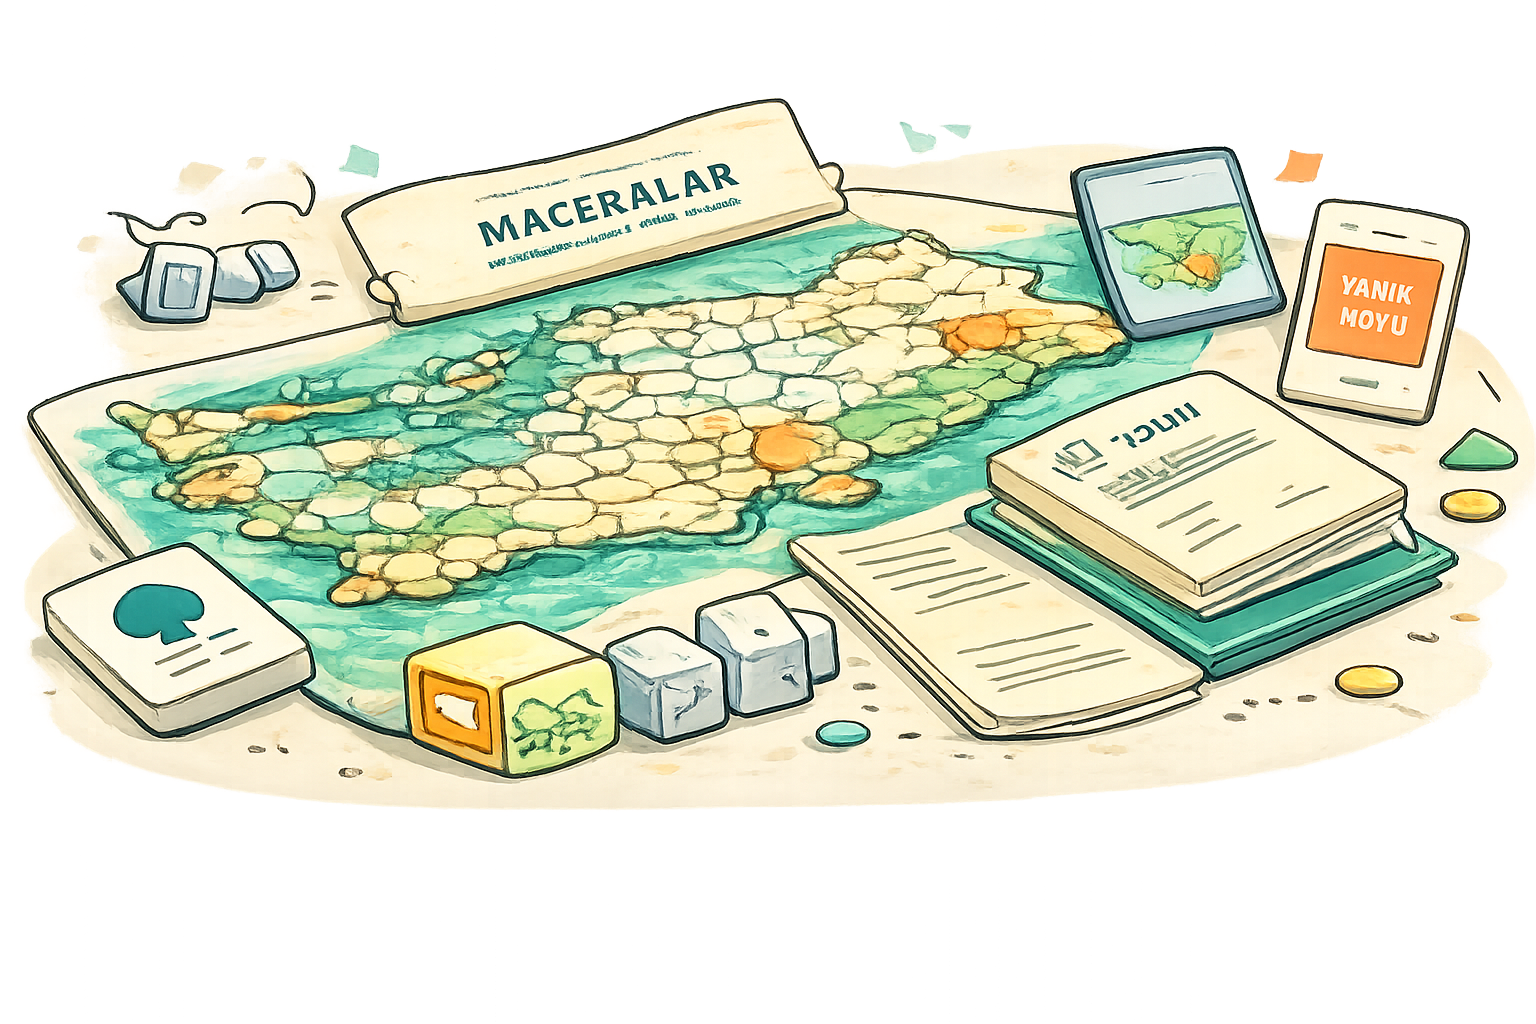
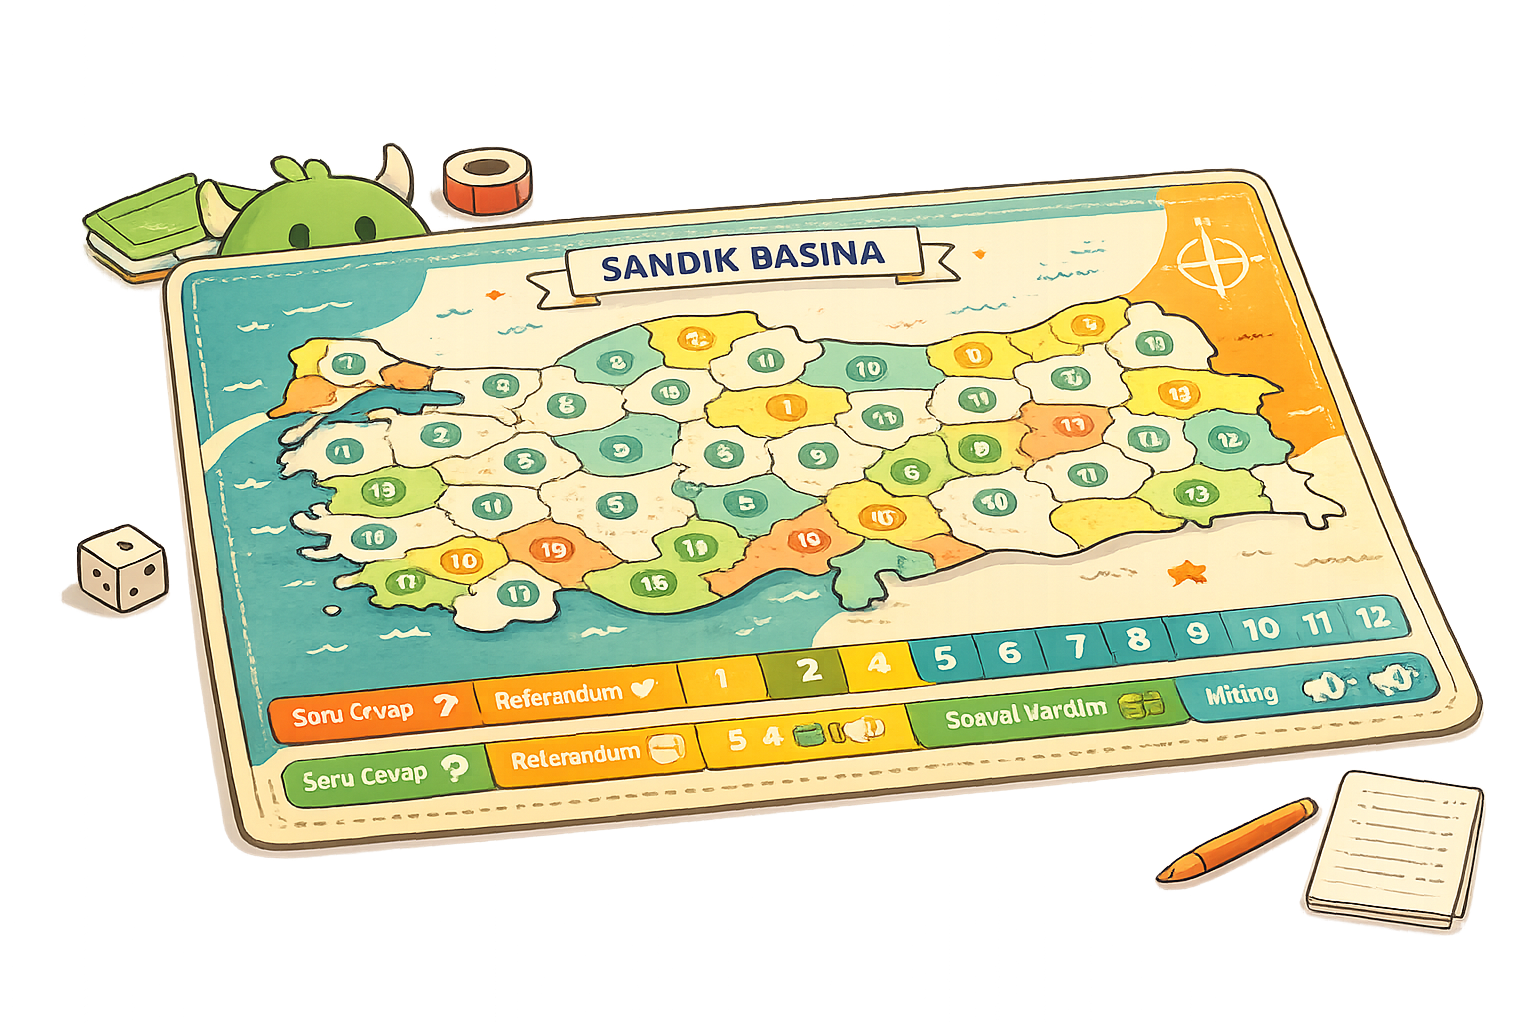
contact revised-game illustrations revised

diff --git a/contact.html b/contact.html
@@ -3,17 +3,21 @@
 <head>
   <meta charset="UTF-8" />
   <meta name="viewport" content="width=device-width, initial-scale=1.0" />
+
   <title>Contact – MEHH</title>
- <meta
+
+  <meta
     name="description"
     content="Get in touch with MEHH for games, apps, collaborations or strange ideas."
   />
+
   <!-- GLOBAL -->
   <link rel="stylesheet" href="style.css" />
 
   <!-- PAGE -->
   <link rel="stylesheet" href="contact.css" />
-   <!-- Open Graph -->
+
+  <!-- Open Graph -->
   <meta property="og:title" content="Contact – MEHH">
   <meta property="og:description" content="Have a strange idea? A collaboration? Or just curiosity? Get in touch.">
   <meta property="og:image" content="https://lifeismehh.com/img/og.jpg">
@@ -22,48 +26,51 @@
 
   <!-- Favicon -->
   <link rel="icon" href="/favicon.ico">
-  <!-- Google tag (gtag.js) -->
-<script async src="https://www.googletagmanager.com/gtag/js?id=G-J0YQLYL523"></script>
-<script>
-  window.dataLayer = window.dataLayer || [];
-  function gtag(){dataLayer.push(arguments);}
-  gtag('js', new Date());
 
-  gtag('config', 'G-J0YQLYL523');
-</script>
+  <!-- Google Analytics -->
+  <script async src="https://www.googletagmanager.com/gtag/js?id=G-J0YQLYL523"></script>
+  <script>
+    window.dataLayer = window.dataLayer || [];
+    function gtag(){dataLayer.push(arguments);}
+    gtag('js', new Date());
+    gtag('config', 'G-J0YQLYL523');
+  </script>
 </head>
+
 <body>
 
 <div class="container">
 
   <!-- HEADER (INDEX İLE AYNI) -->
   <header class="header">
-<a href="index.html" class="logo-link">
-  <img src="img/logo.png" alt="MEHH Logo" class="logo" />
-</a>
+    <a href="index.html" class="logo-link">
+      <img src="img/logo.png" alt="MEHH Logo" class="logo" />
+    </a>
+
     <nav>
       <a href="index.html">Home</a>
       <a href="games.html">Games</a>
       <a href="apps.html">Apps</a>
-      <a href="contact.html">Contact</a>
+      <a href="experiments.html">Experiments</a>
+
     </nav>
   </header>
 
   <!-- HERO -->
-  <section class="contact-hero">
-    <h1>Contact</h1>
-    <p>
-      Got a strange idea?<br>
-      A question? Wanna say hi?
-    </p>
-  </section>
+ 
 
   <!-- CONTACT CARD -->
   <section class="contact-wrapper">
     <div class="contact-card">
-      <p class="contact-line">
-        The fastest way to reach us:
-      </p>
+
+      <!-- MONSTER (NEW, SAFE) -->
+      <img
+        src="img/mehh-contact.png"
+        alt="MEHH monster chilling in an armchair"
+        class="contact-illustration"
+      />
+
+   
 
       <a href="mailto:hello@lifeismehh.com" class="contact-email">
         hello@lifeismehh.com
@@ -71,14 +78,13 @@
 
       <p class="contact-note">
         We read everything.<br>
-Sometimes slowly.
+        Sometimes slowly.
       </p>
     </div>
   </section>
 
   <!-- FOOTER TEXT -->
   <section class="contact-footer">
-  
   </section>
 
   <!-- FOOTER (INDEX İLE AYNI) -->

diff --git a/contact.css b/contact.css
@@ -35,6 +35,14 @@
   text-align: center;
 }
 
+/* NEW – monster illustration (does NOT affect layout) */
+.contact-illustration {
+  display: block;
+  max-width: 260px;
+  width: 100%;
+  margin: 0 auto 32px;
+}
+
 .contact-line {
   font-size: 16px;
   margin-bottom: 16px;
@@ -89,5 +97,9 @@
 
   .contact-email {
     font-size: 20px;
+  }
+
+  .contact-illustration {
+    max-width: 220px;
   }
 }

diff --git a/404.html b/404.html
@@ -1,7 +1,7 @@
 <div class="container" style="text-align:center;">
 
   <img 
-    src="img/mehh-logo.svg" 
+    src="img/mehh-logo.png" 
     alt="MEHH illustration"
     style="max-width:160px; margin-bottom:24px;"
   />
